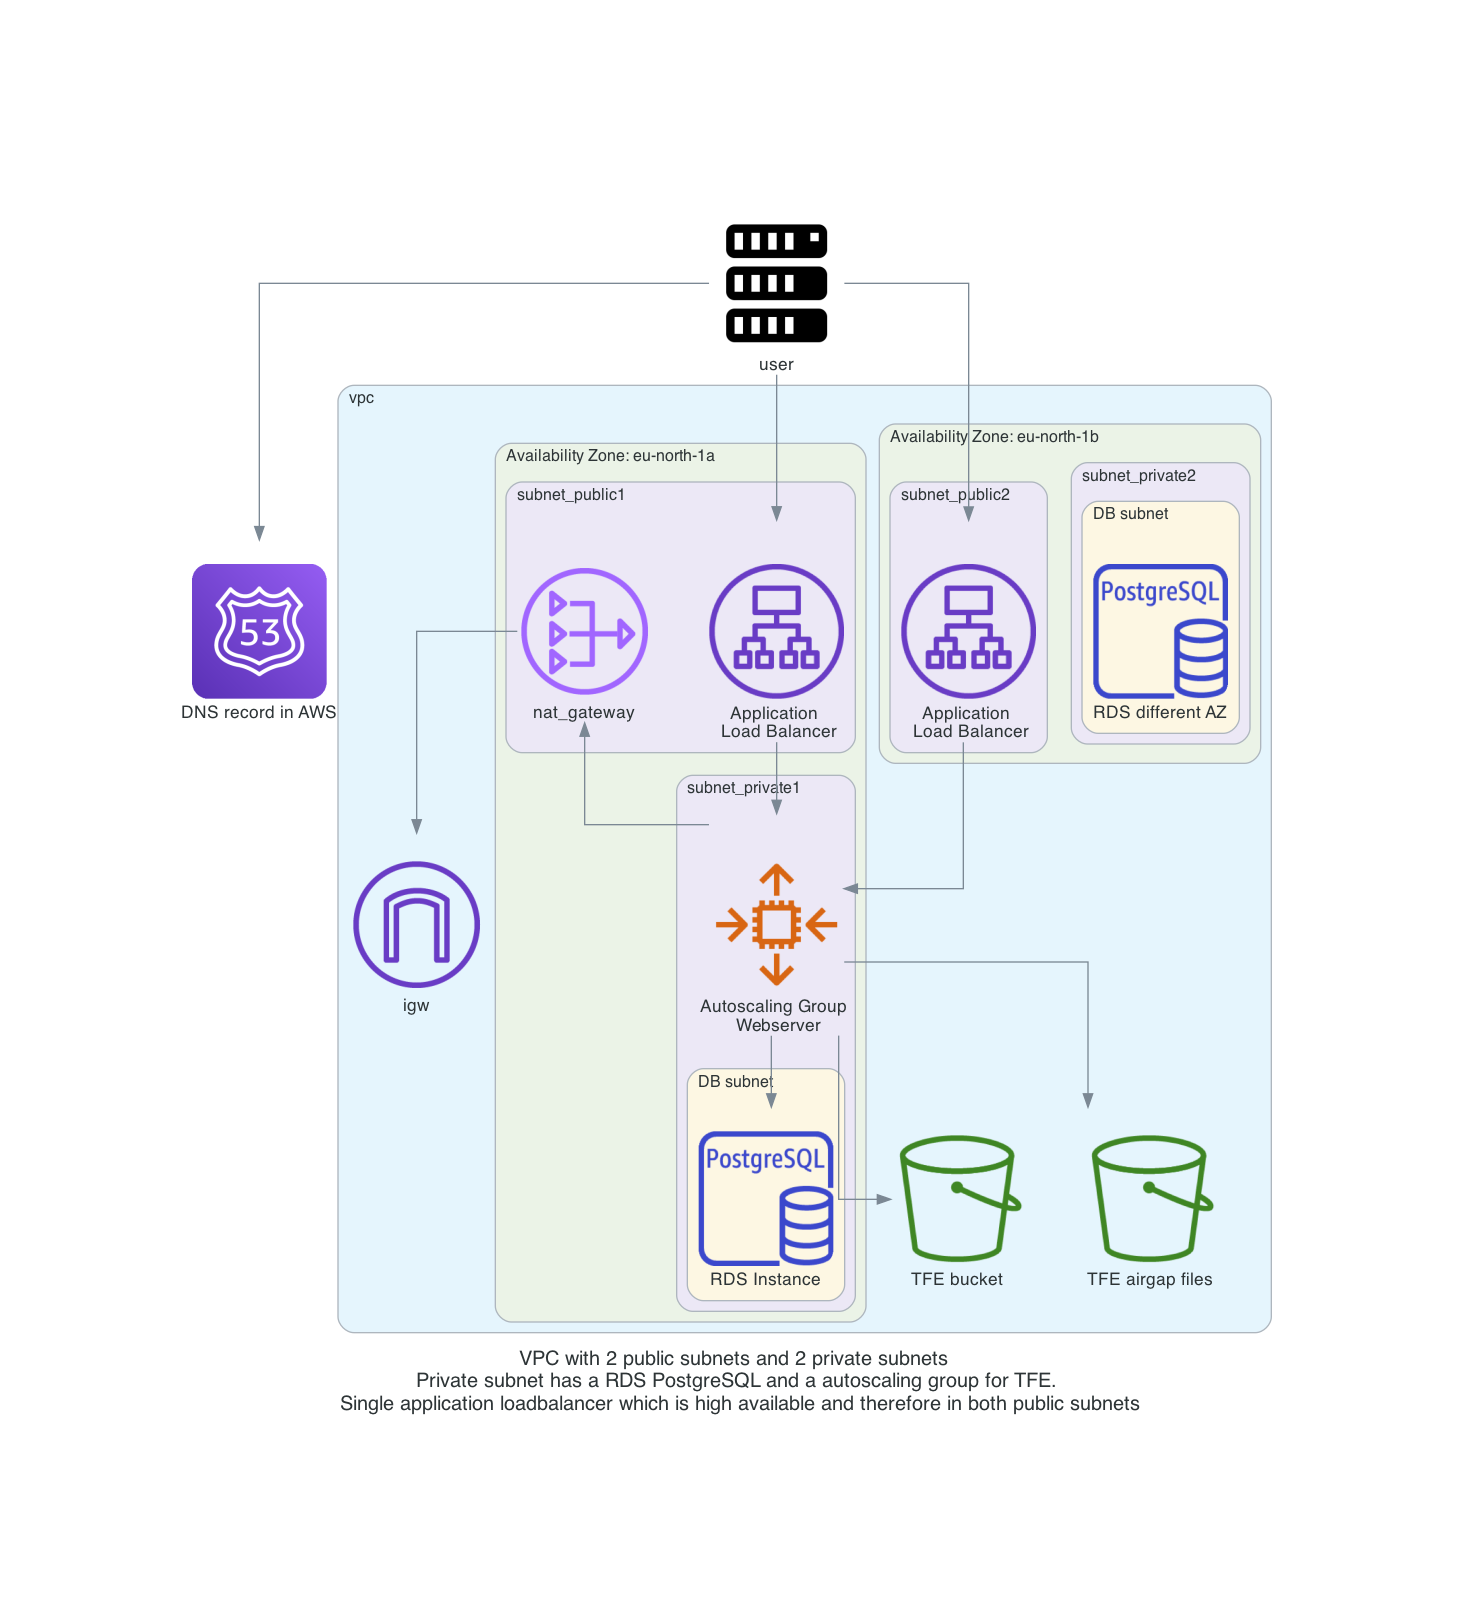
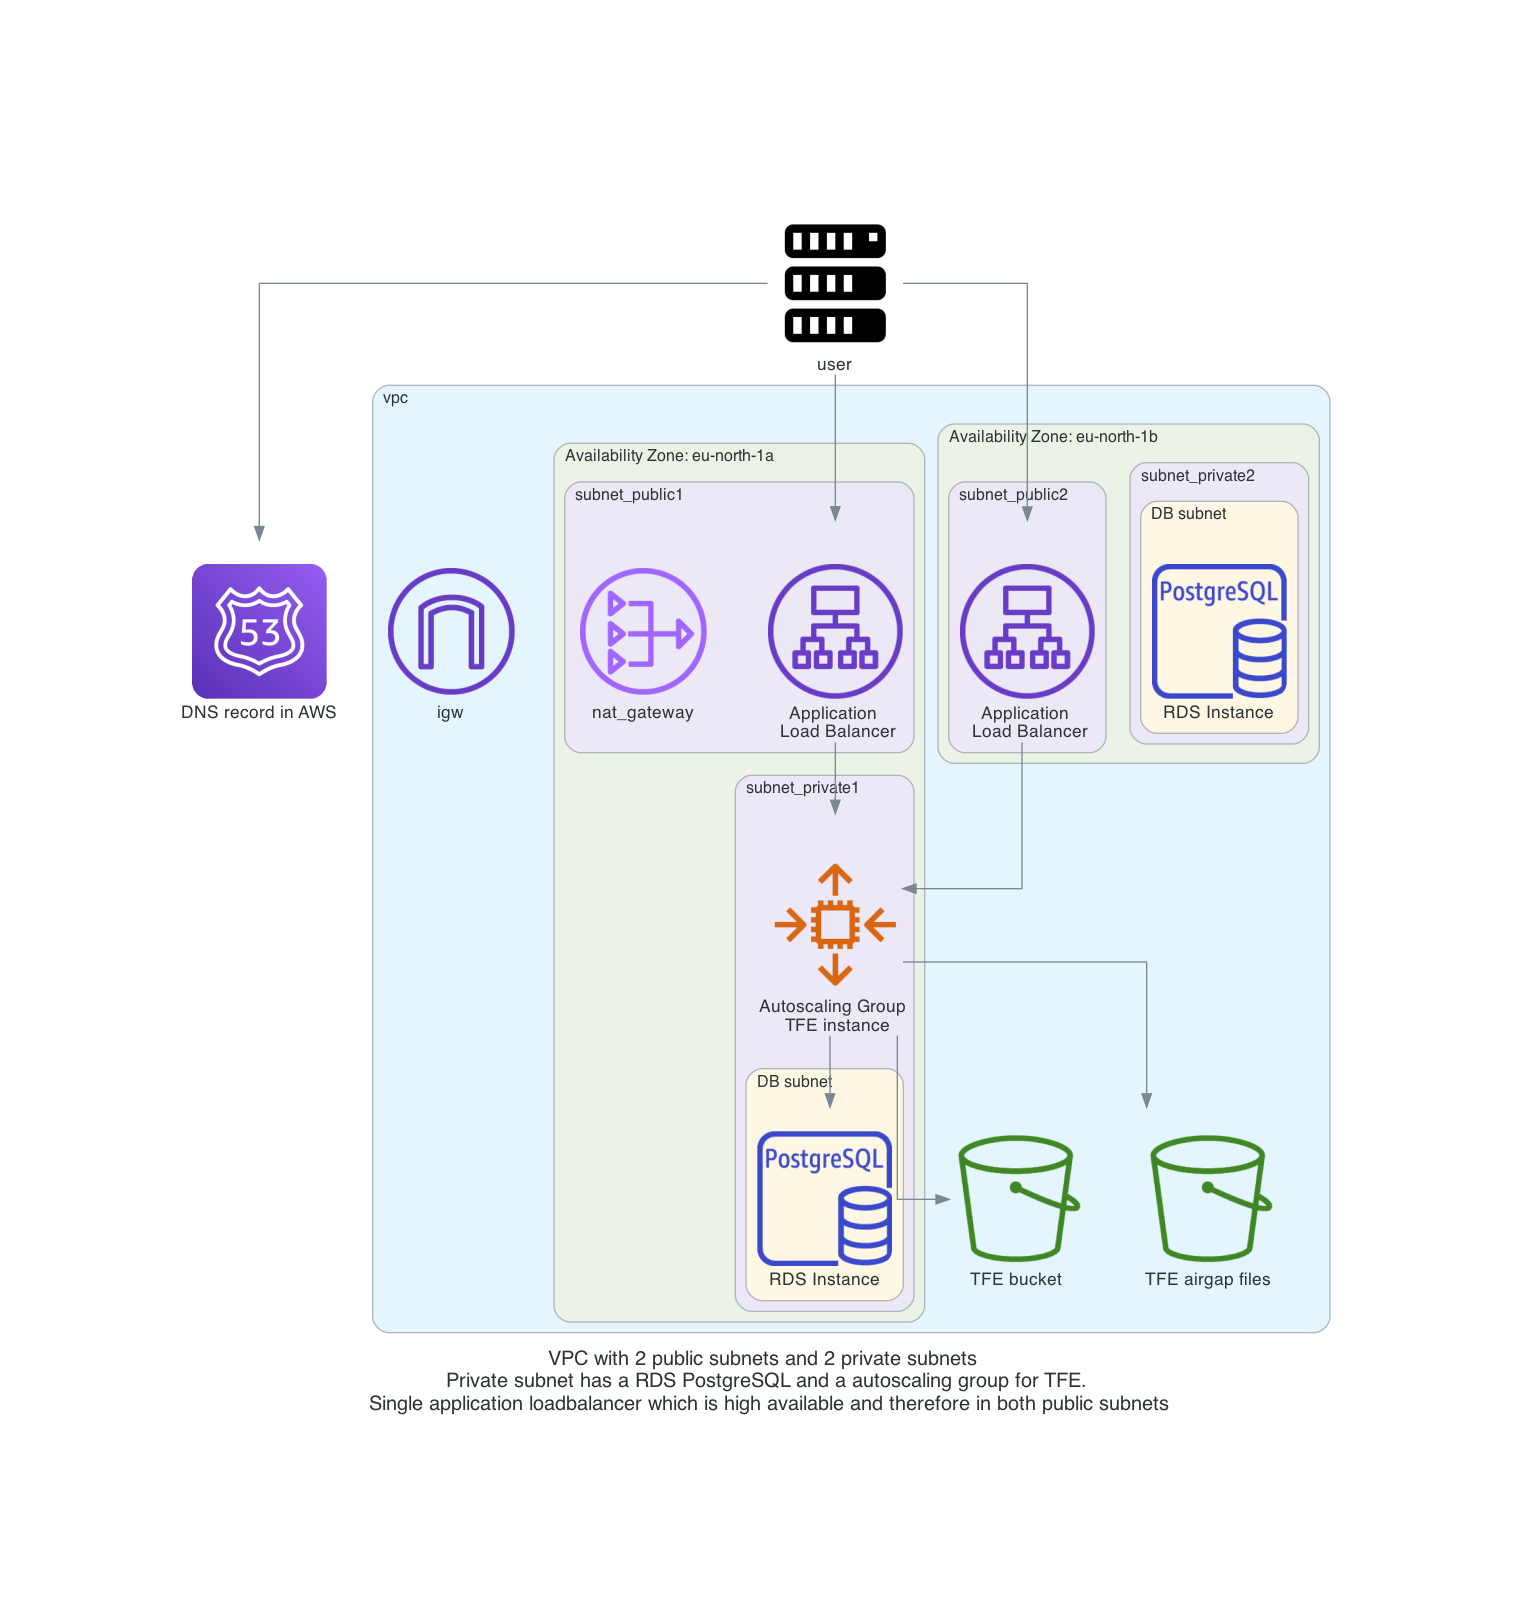
diagram and small things to update

diff --git a/diagram/diagram_tfe_asg.py b/diagram/diagram_tfe_asg.py
@@ -29,10 +29,11 @@ with Diagram(
         igw_gateway = InternetGateway("igw")
 
         with Cluster("Availability Zone: eu-north-1b"):
+
             # Subcluster
             with Cluster("subnet_private2"):
                 with Cluster("DB subnet"):
-                            postgresql2 = RDSPostgresqlInstance("RDS different AZ")
+                            postgresql2 = RDSPostgresqlInstance("RDS Instance")
             with Cluster("subnet_public2"):
                 loadbalancer2 = ElbApplicationLoadBalancer("Application \n Load Balancer")
                         # Subcluster
@@ -44,7 +45,7 @@ with Diagram(
                 nat_gateway = NATGateway("nat_gateway")
             # Subcluster
             with Cluster("subnet_private1"):
-                asg_tfe_server = EC2AutoScaling("Autoscaling Group \n Webserver")
+                asg_tfe_server = EC2AutoScaling("Autoscaling Group \n TFE instance")
                 with Cluster("DB subnet"):
                         postgresql = RDSPostgresqlInstance("RDS Instance")
  
@@ -53,11 +54,10 @@ with Diagram(
     user >>  [ loadbalancer1, 
               loadbalancer2] >> asg_tfe_server 
 
-    asg_tfe_server >> nat_gateway >> igw_gateway 
 
     asg_tfe_server >> [postgresql,
-                       bucket_tfe, 
-                       bucket_files]
+                       bucket_tfe,
+                       bucket_files
+    ]
     
-    route53
 diag
